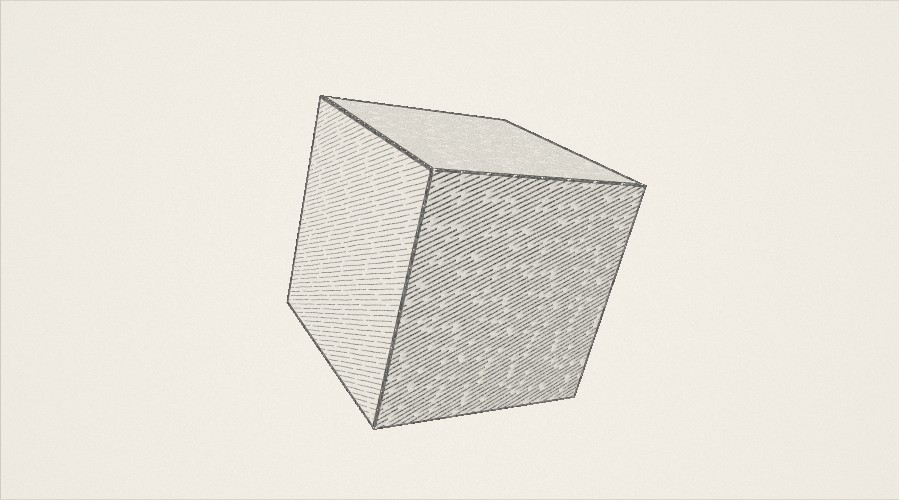
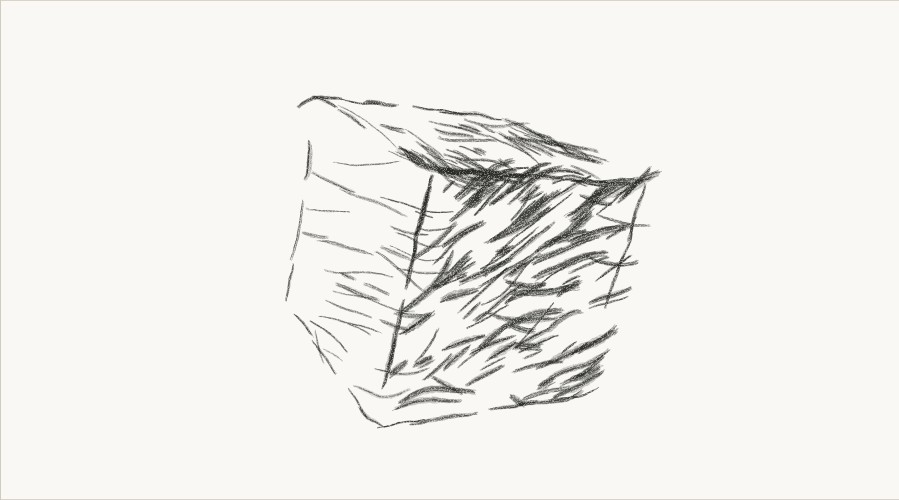
Draw pencil study with selective finite-stroke agents

Changed region(s): [[0.3115, 0.18, 0.7475, 0.87]]

diff --git a/src/components/interactive/pencil-agents.ts b/src/components/interactive/pencil-agents.ts
@@ -1,0 +1,259 @@
+type V3 = [number, number, number];
+type Point = { x: number; y: number };
+type Face = { indices: number[]; normal: V3; tone: number; direction: number; depth: number };
+type Edge = { a: Point; b: Point; tone: number; id: number };
+export interface PencilDrawing {
+  pitch: number; yaw: number; zoom: number; pressure: number;
+  tooth: number; wander: number; light: number; emphasis: number; frame: number;
+}
+
+function random(seed: number) {
+  let state = seed | 0;
+  return () => {
+    state = Math.imul(state ^ (state >>> 16), 0x21f0aaad);
+    state = Math.imul(state ^ (state >>> 15), 0x735a2d97);
+    state ^= state >>> 15;
+    return (state >>> 0) / 4294967296;
+  };
+}
+const distance = (a: Point, b: Point) => Math.hypot(a.x-b.x, a.y-b.y);
+const mix = (a: Point, b: Point, t: number): Point => ({ x:a.x+(b.x-a.x)*t, y:a.y+(b.y-a.y)*t });
+const angleDelta = (a: number, b: number) => Math.atan2(Math.sin(a-b),Math.cos(a-b));
+
+/** Screen-space pencil walkers. Geometry is guidance only, never a visible fill.
+ * Each walker has a seed, heading, finite lifetime and pressure envelope. Three
+ * forward sensors seek an edge/tone field; deposited ink discourages crowding.
+ * The same seed is replayed for a changed view, avoiding random per-frame noise.
+ * This is a bounded, CPU interpretation of the original HLSL experiment, not a
+ * port of its full compute pipeline or a persistent physical graphite model.
+ */
+export class PencilAgents {
+  private ctx: CanvasRenderingContext2D;
+  private field = document.createElement('canvas');
+  private fieldCtx: CanvasRenderingContext2D;
+  private ink = document.createElement('canvas');
+  private inkCtx: CanvasRenderingContext2D;
+  private grain = document.createElement('canvas');
+  private grainPattern: CanvasPattern | null = null;
+  private fieldSize = 128;
+  private tone = new Float32Array(128*128);
+  private direction = new Float32Array(128*128);
+  private edgeSignal = new Float32Array(128*128);
+  private deposited = new Float32Array(128*128);
+
+  constructor(private canvas: HTMLCanvasElement) {
+    const ctx = canvas.getContext('2d', { alpha: false });
+    const field = this.field.getContext('2d', { willReadFrequently: true });
+    const ink = this.ink.getContext('2d');
+    if (!ctx || !field || !ink) throw new Error('Canvas drawing unavailable');
+    this.ctx = ctx; this.fieldCtx = field; this.inkCtx = ink;
+    this.field.width = this.field.height = this.fieldSize;
+    this.grain.width = this.grain.height = 128;
+    const grain = this.grain.getContext('2d')!;
+    const pixels = grain.createImageData(128,128);
+    const rng = random(32173);
+    for (let i=0; i<pixels.data.length; i+=4) {
+      // Sparse paper pores, applied to the deposited ink rather than the shape.
+      pixels.data[i+3] = rng() > .65 ? 60+rng()*195 : rng()*35;
+    }
+    grain.putImageData(pixels,0,0);
+    this.grainPattern = ink.createPattern(this.grain,'repeat');
+  }
+
+  draw(settings: PencilDrawing) {
+    const { canvas, ctx, inkCtx, fieldCtx, fieldSize: size } = this;
+    const width=canvas.width, height=canvas.height;
+    if (this.ink.width !== width || this.ink.height !== height) {
+      this.ink.width=width; this.ink.height=height;
+    }
+    // Work in a fixed drawing coordinate system; line widths survive DPR/resize.
+    const h=600, w=h*width/height, scale=height/h;
+    ctx.setTransform(1,0,0,1,0,0);
+    ctx.fillStyle='#faf9f5'; ctx.fillRect(0,0,width,height);
+    inkCtx.setTransform(1,0,0,1,0,0); inkCtx.clearRect(0,0,width,height);
+    inkCtx.setTransform(scale,0,0,scale,0,0);
+    inkCtx.lineCap='round'; inkCtx.lineJoin='round';
+    const rng = random(18031+settings.frame*193);
+    const rotate = ([x,y,z]: V3): V3 => {
+      const cy=Math.cos(settings.yaw), sy=Math.sin(settings.yaw);
+      const cx=Math.cos(settings.pitch), sx=Math.sin(settings.pitch);
+      const yy=cx*y-sx*z, zz=sx*y+cx*z;
+      return [cy*x+sy*zz, yy, -sy*x+cy*zz];
+    };
+    const lens=2.65*h*.52*settings.zoom*Math.min(1,width/height*.9);
+    const vertices: V3[] = Array.from({length:8},(_,i)=>rotate([(i&1)? .8:-.8,(i&2)? .8:-.8,(i&4)? .8:-.8]));
+    const points = vertices.map(([x,y,z],i) => {
+      const jitter=random(97+i*131);
+      // Shared loose construction: all strokes agree roughly, not perfectly.
+      return {x:w/2+x/(4.8-z)*lens+(jitter()-.5)*(3+settings.wander*12),
+              y:h/2-y/(4.8-z)*lens+(jitter()-.5)*(3+settings.wander*12)};
+    });
+    const lamp: V3 = [Math.cos(settings.light),.85,Math.sin(settings.light)];
+    const length=Math.hypot(...lamp);
+    const definitions: {indices:number[]; normal:V3}[] = [
+      {indices:[0,4,6,2],normal:[-1,0,0]}, {indices:[1,3,7,5],normal:[1,0,0]},
+      {indices:[0,1,5,4],normal:[0,-1,0]}, {indices:[2,6,7,3],normal:[0,1,0]},
+      {indices:[0,2,3,1],normal:[0,0,-1]}, {indices:[4,5,7,6],normal:[0,0,1]},
+    ];
+    const faces: Face[] = definitions.map(face => {
+      const normal=rotate(face.normal);
+      const a=points[face.indices[0]], b=points[face.indices[1]], c=points[face.indices[3]];
+      return {...face,normal, tone:Math.max(.04,.8-.8*Math.max(0,normal.reduce((s,n,i)=>s+n*lamp[i]/length,0))),
+        direction:Math.atan2(b.y-a.y+(c.y-a.y)*.45,b.x-a.x+(c.x-a.x)*.45),
+        depth:face.indices.reduce((s,i)=>s+vertices[i][2],0)/4};
+    }).filter(face=>face.normal[2]*4.8>.8).sort((a,b)=>a.depth-b.depth);
+    const front=vertices.reduce((best,v,i)=>v[2]>vertices[best][2]?i:best,0);
+    const focus=points[front];
+    const attention=(p:Point)=>.23+.77*Math.exp(-Math.pow(distance(p,focus)/210,2));
+    const selected=(p:Point)=>1-settings.emphasis+settings.emphasis*attention(p);
+    const edges=new Map<string,Edge>();
+    fieldCtx.clearRect(0,0,size,size);
+    faces.forEach((face,index)=>{
+      fieldCtx.beginPath();
+      face.indices.forEach((id,i)=>{
+        const p=points[id];
+        if (i===0) fieldCtx.moveTo(p.x/w*size,p.y/h*size);
+        else fieldCtx.lineTo(p.x/w*size,p.y/h*size);
+        const other=face.indices[(i+1)%4], key=[id,other].sort((a,b)=>a-b).join(':');
+        const old=edges.get(key);
+        edges.set(key,{a:points[id],b:points[other],tone:Math.max(old?.tone||0,face.tone),id:Math.min(id,other)*8+Math.max(id,other)});
+      });
+      fieldCtx.closePath(); fieldCtx.fillStyle=`rgb(${(index+1)*40},0,0)`; fieldCtx.fill();
+    });
+    const faceIds=fieldCtx.getImageData(0,0,size,size).data;
+    this.deposited.fill(0); this.edgeSignal.fill(0);
+    const allEdges=[...edges.values()];
+    for (let y=0;y<size;y++) for (let x=0;x<size;x++) {
+      const i=y*size+x, face=faces[Math.round(faceIds[i*4]/40)-1];
+      this.tone[i]=face?.tone||0; this.direction[i]=face?.direction||0;
+      const p={x:(x+.5)*w/size,y:(y+.5)*h/size};
+      let signal=0;
+      for (const edge of allEdges) {
+        const dx=edge.b.x-edge.a.x, dy=edge.b.y-edge.a.y;
+        const t=Math.max(0,Math.min(1,((p.x-edge.a.x)*dx+(p.y-edge.a.y)*dy)/(dx*dx+dy*dy)));
+        const d=distance(p,mix(edge.a,edge.b,t));
+        signal=Math.max(signal,Math.exp(-d*d/55)*(.45+edge.tone*.55));
+      }
+      this.edgeSignal[i]=signal;
+    }
+    const cell=(p:Point)=>{
+      const x=Math.floor(p.x/w*size), y=Math.floor(p.y/h*size);
+      return x<0||x>=size||y<0||y>=size ? -1 : y*size+x;
+    };
+    const sample=(p:Point,contour:boolean)=>{
+      const i=cell(p);
+      if (i<0) return -1;
+      return (contour ? this.edgeSignal[i] : this.tone[i]*.7+this.edgeSignal[i]*.15) - this.deposited[i]*.1;
+    };
+    const trace=(start:Point,heading:number,steps:number,contour:boolean,seed:number)=>{
+      const r=random(seed+settings.frame*193);
+      const path=[start];
+      let p=start, drift=0, outside=0;
+      const step=2.5+r()*2;
+      for (let k=0;k<steps;k++) {
+        // Forward left/right sensors reproduce the essential steering mechanism.
+        const sense=(a:number)=>sample({x:p.x+Math.cos(a)*8,y:p.y+Math.sin(a)*8},contour);
+        const left=sense(heading-.4), center=sense(heading), right=sense(heading+.4);
+        if (left>center || right>center) heading+=(right>left ? 1:-1)*(contour ? .12 : .055);
+        const i=cell(p);
+        if (!contour && i>=0 && this.tone[i]>0) {
+          let target=this.direction[i];
+          if (Math.abs(angleDelta(target,heading))>Math.PI/2) target+=Math.PI;
+          heading+=angleDelta(target,heading)*.035;
+        }
+        drift=drift*.72+(r()-.5)*(.025+settings.wander*.13);
+        heading+=drift;
+        p={x:p.x+Math.cos(heading)*step,y:p.y+Math.sin(heading)*step};
+        path.push(p);
+        if (i>=0) this.deposited[i]+=.2;
+        // Marks may overshoot the guide for a few steps, rather than being clipped.
+        if (sample(p,contour)<.025) outside++; else outside=0;
+        if (outside>4) break;
+      }
+      return path;
+    };
+    const stroke=(path:Point[],weight:number,opacity:number,seed:number)=>{
+      if (path.length<3) return;
+      const r=random(seed);
+      // A pressure-shaped ribbon, not a uniform tube; dry filaments break it up.
+      const sides: Point[][] = [[],[]];
+      path.forEach((p,i)=>{
+        const before=path[Math.max(0,i-1)], after=path[Math.min(path.length-1,i+1)];
+        const len=Math.max(.01,distance(before,after));
+        const envelope=.12+.88*Math.pow(Math.sin(Math.PI*i/(path.length-1)),.65);
+        const radius=weight*envelope*(.65+r()*.3);
+        const nx=-(after.y-before.y)/len*radius, ny=(after.x-before.x)/len*radius;
+        sides[0].push({x:p.x+nx,y:p.y+ny}); sides[1].push({x:p.x-nx,y:p.y-ny});
+      });
+      inkCtx.beginPath();
+      [...sides[0],...sides[1].reverse()].forEach((p,i)=>i?inkCtx.lineTo(p.x,p.y):inkCtx.moveTo(p.x,p.y));
+      inkCtx.closePath(); inkCtx.fillStyle=`rgba(42,42,36,${opacity*.34})`; inkCtx.fill();
+      const fibers=3+Math.ceil(weight*.8);
+      for (let f=0;f<fibers;f++) {
+        const ox=(r()-.5)*weight, oy=(r()-.5)*weight;
+        inkCtx.beginPath(); let drawing=false;
+        for (let j=0;j<path.length;j++) {
+          const p=path[j], envelope=Math.sin(Math.PI*j/(path.length-1));
+          if (r()<settings.tooth*.07 || (envelope<.3 && r()<.2)) {drawing=false;continue;}
+          const x=p.x+ox+(r()-.5)*.9, y=p.y+oy+(r()-.5)*.9;
+          if (drawing) inkCtx.lineTo(x,y); else inkCtx.moveTo(x,y);
+          drawing=true;
+        }
+        inkCtx.lineWidth=(.35+r()*.65)*(1+weight*.2);
+        inkCtx.strokeStyle=`rgba(35,36,30,${opacity*(.3+r()*.35)})`; inkCtx.stroke();
+      }
+    };
+
+    // Loose structural accents, broken into several independently steered marks.
+    for (const edge of allEdges) {
+      const r=random(901+edge.id*307+settings.frame*193);
+      const len=distance(edge.a,edge.b), middle=mix(edge.a,edge.b,.5);
+      const importance=selected(middle)*(.35+edge.tone*.65);
+      const count=Math.ceil(2+importance*7);
+      for (let i=0;i<count;i++) {
+        const t=(i+r()*.7)/count;
+        if (r()> .28+importance*.8) continue;
+        const start=mix(edge.a,edge.b,t);
+        start.x+=(r()-.5)*(2+settings.wander*9); start.y+=(r()-.5)*(2+settings.wander*9);
+        const heading=Math.atan2(edge.b.y-edge.a.y,edge.b.x-edge.a.x)+(r()-.5)*.12;
+        const steps=Math.ceil((len/count)*(1.0+r()*.9)/3.5);
+        const path=trace(start,heading,steps,true,edge.id*991+i*107+1);
+        stroke(path,(1.+r()*3.4)*settings.pressure*(.4+importance),.5+importance*.45,edge.id*71+i+11);
+      }
+      // A few decisive structural accents earn their weight near the focus.
+      const near=distance(edge.a,focus)<distance(edge.b,focus)?edge.a:edge.b;
+      const far=near===edge.a?edge.b:edge.a;
+      if (distance(near,focus)<25 && edge.tone>.28) {
+        const start=mix(near,far,.015+r()*.04);
+        const path=trace(start,Math.atan2(far.y-near.y,far.x-near.x),Math.ceil(len*(.28+r()*.22)/3.5),true,edge.id*71+719);
+        stroke(path,(2.6+r()*2.6)*settings.pressure,.9,edge.id+471);
+      }
+    }
+    // Tone is represented by unequal, locally grouped marks, never a face fill.
+    let accepted=0;
+    const budget=190;
+    for (let attempt=0;attempt<budget*6 && accepted<budget;attempt++) {
+      const face=faces[Math.floor(rng()*faces.length)];
+      if (!face) break;
+      const u=rng(),v=rng();
+      const start=mix(mix(points[face.indices[0]],points[face.indices[1]],u),mix(points[face.indices[3]],points[face.indices[2]],u),v);
+      const local=selected(start);
+      if (rng()>face.tone*local*.65) continue;
+      const seed=accepted*211+131;
+      let heading=face.direction+(rng()-.5)*(.3+settings.wander*.7);
+      if (rng()<.17*face.tone) heading+=1.0;
+      const steps=5+Math.floor(rng()*17*(.6+local));
+      const path=trace(start,heading,steps,false,seed);
+      const width=(1.1+rng()*4.5)*settings.pressure*(.5+face.tone*.7);
+      stroke(path,width,(.40+face.tone*.5)*(.55+local*.45),seed);
+      accepted++;
+    }
+    // Preserve grain inside heavy accents, with no exact geometric mask.
+    inkCtx.setTransform(1,0,0,1,0,0);
+    inkCtx.globalCompositeOperation='destination-out';
+    inkCtx.globalAlpha=settings.tooth*.8;
+    if (this.grainPattern) { inkCtx.fillStyle=this.grainPattern; inkCtx.fillRect(0,0,width,height); }
+    inkCtx.globalAlpha=1; inkCtx.globalCompositeOperation='source-over';
+    ctx.drawImage(this.ink,0,0);
+  }
+}

diff --git a/src/components/interactive/pencil-study.ts b/src/components/interactive/pencil-study.ts
@@ -1,4 +1,5 @@
 import fragment from './pencil-study.frag.glsl?raw';
+import { PencilAgents } from './pencil-agents';
 
 const vertex = `#version 300 es
 void main() {
@@ -7,7 +8,8 @@ void main() {
 }`;
 
 export function initPencilStudy(root: HTMLElement) {
-  const canvas = root.querySelector('canvas')!;
+  const canvas = root.querySelector<HTMLCanvasElement>('.pencil-surface-canvas')!;
+  const agentCanvas = root.querySelector<HTMLCanvasElement>('.pencil-agent-canvas')!;
   const tools = root.querySelector('fieldset')!;
   const status = root.querySelector<HTMLElement>('[role="status"]')!;
   const spin = root.querySelector<HTMLButtonElement>('[data-spin]')!;
@@ -19,14 +21,15 @@ export function initPencilStudy(root: HTMLElement) {
   let gl: WebGL2RenderingContext | null = null;
   let program: WebGLProgram | null = null;
   let uniforms: Record<string, WebGLUniformLocation | null> = {};
-  let pitch = .42, yaw = .58, zoom = 1, style = 0;
+  let agents: PencilAgents | null = null;
+  let pitch = .42, yaw = .58, zoom = 1, style = 4;
   let rotating = !reduced.matches, visible = false, lost = false;
-  let frame = 0, last = 0, clock = 0;
+  let frame = 0, last = 0, clock = 0, lastPaint = 0;
   let drag: { id: number; x: number; y: number } | null = null;
 
   function stop() { cancelAnimationFrame(frame); frame = 0; last = 0; }
   function requestDraw() {
-    if (!frame && visible && !document.hidden && !lost && program) frame = requestAnimationFrame(draw);
+    if (!frame && visible && !document.hidden && (style === 4 ? agents : !lost && program)) frame = requestAnimationFrame(draw);
   }
   function setRotating(value: boolean) {
     rotating = value;
@@ -35,6 +38,17 @@ export function initPencilStudy(root: HTMLElement) {
   }
   function fail(error: unknown) {
     stop();
+    styles.filter(button => Number(button.dataset.style) !== 4).forEach(button => button.disabled = true);
+    if (agents) {
+      tools.disabled = false;
+      if (style !== 4) {
+        chooseStyle(styles.find(button => Number(button.dataset.style) === 4)!);
+        status.hidden = false;
+        status.textContent = ja ? '素材シェーダーを利用できないため、線の描画に切り替えました。' : 'Material shaders are unavailable; switched to the pencil drawing.';
+      }
+      requestDraw();
+      return;
+    }
     delete root.dataset.ready;
     tools.disabled = true;
     status.hidden = false;
@@ -70,6 +84,7 @@ export function initPencilStudy(root: HTMLElement) {
       uniforms = Object.fromEntries(['Resolution','Rotation','Zoom','Pressure','Tooth','Wander','Light','Frame','Style'].map(name => [name, gl!.getUniformLocation(program!, `u${name}`)]));
       lost = false;
       tools.disabled = false;
+      styles.forEach(button => button.disabled = Number(button.dataset.style) === 4 && !agents);
       status.hidden = true;
       resize();
       requestDraw();
@@ -82,17 +97,29 @@ export function initPencilStudy(root: HTMLElement) {
     const height = Math.max(1, Math.round(rect.height * dpr));
     if (canvas.width !== width || canvas.height !== height) {
       canvas.width = width; canvas.height = height;
+      agentCanvas.width = width; agentCanvas.height = height;
     }
     requestDraw();
   }
   function draw(time: number) {
     frame = 0;
-    if (!gl || !program || lost || !visible || document.hidden) { last = 0; return; }
+    if (!visible || document.hidden || (style === 4 ? !agents : !gl || !program || lost)) { last = 0; return; }
+    // The bounded agent solve is capped at 24 Hz while in motion; a paused drawing
+    // is rendered only when an input changes. No background simulation is running.
+    if (style === 4 && (rotating || boil.checked) && time-lastPaint < 1000/24) {
+      requestDraw(); return;
+    }
+    lastPaint = time;
     const dt = last ? Math.min((time-last)/1000, .05) : 0;
     last = time;
     if (rotating && !drag) yaw += dt * .15;
     if (boil.checked) clock += dt;
     const values = Object.fromEntries(sliders.map(input => [input.dataset.param!, Number(input.value)/100]));
+    if (style === 4 && agents) {
+      agents.draw({pitch,yaw,zoom,pressure:.3+values.pressure*1.4,tooth:values.tooth,
+        wander:values.wander,light:values.light*Math.PI*2,emphasis:values.emphasis,
+        frame:boil.checked ? Math.floor(clock*8) : 0});
+    } else if (gl && program) {
     gl.viewport(0,0,canvas.width,canvas.height);
     gl.useProgram(program);
     gl.uniform2f(uniforms.Resolution,canvas.width,canvas.height);
@@ -106,12 +133,15 @@ export function initPencilStudy(root: HTMLElement) {
     gl.uniform1f(uniforms.Frame,boil.checked ? Math.floor(clock*8) : 0);
     gl.uniform1i(uniforms.Style,style);
     gl.drawArrays(gl.TRIANGLES,0,3);
+    }
     root.dataset.ready = '';
     if (rotating || boil.checked) requestDraw();
     else last = 0;
   }
   function chooseStyle(button: HTMLButtonElement) {
     style = Number(button.dataset.style);
+    root.toggleAttribute('data-agent',style === 4);
+    sliders.find(input => input.dataset.param === 'emphasis')!.disabled = style !== 4;
     styles.forEach(b => b.setAttribute('aria-pressed',String(b === button)));
     root.querySelector('.study-mood')!.textContent = button.dataset.mood!;
     requestDraw();
@@ -131,7 +161,7 @@ export function initPencilStudy(root: HTMLElement) {
     setRotating(!reduced.matches);
   });
   canvas.addEventListener('pointerdown',event => {
-    if (!event.isPrimary || event.button !== 0 || !program || lost) return;
+    if (!event.isPrimary || event.button !== 0 || (style === 4 ? !agents : !program || lost)) return;
     drag = { id: event.pointerId, x: event.clientX, y: event.clientY };
     canvas.setPointerCapture(event.pointerId);
     setRotating(false);
@@ -182,5 +212,8 @@ export function initPencilStudy(root: HTMLElement) {
   });
   addEventListener('pageshow',requestDraw);
   spin.setAttribute('aria-pressed',String(rotating));
+  try { agents = new PencilAgents(agentCanvas); }
+  catch (error) { console.warn('Pencil agents:',error); style = 1; }
+  chooseStyle(styles.find(button => Number(button.dataset.style) === style)!);
   initialize();
 }
